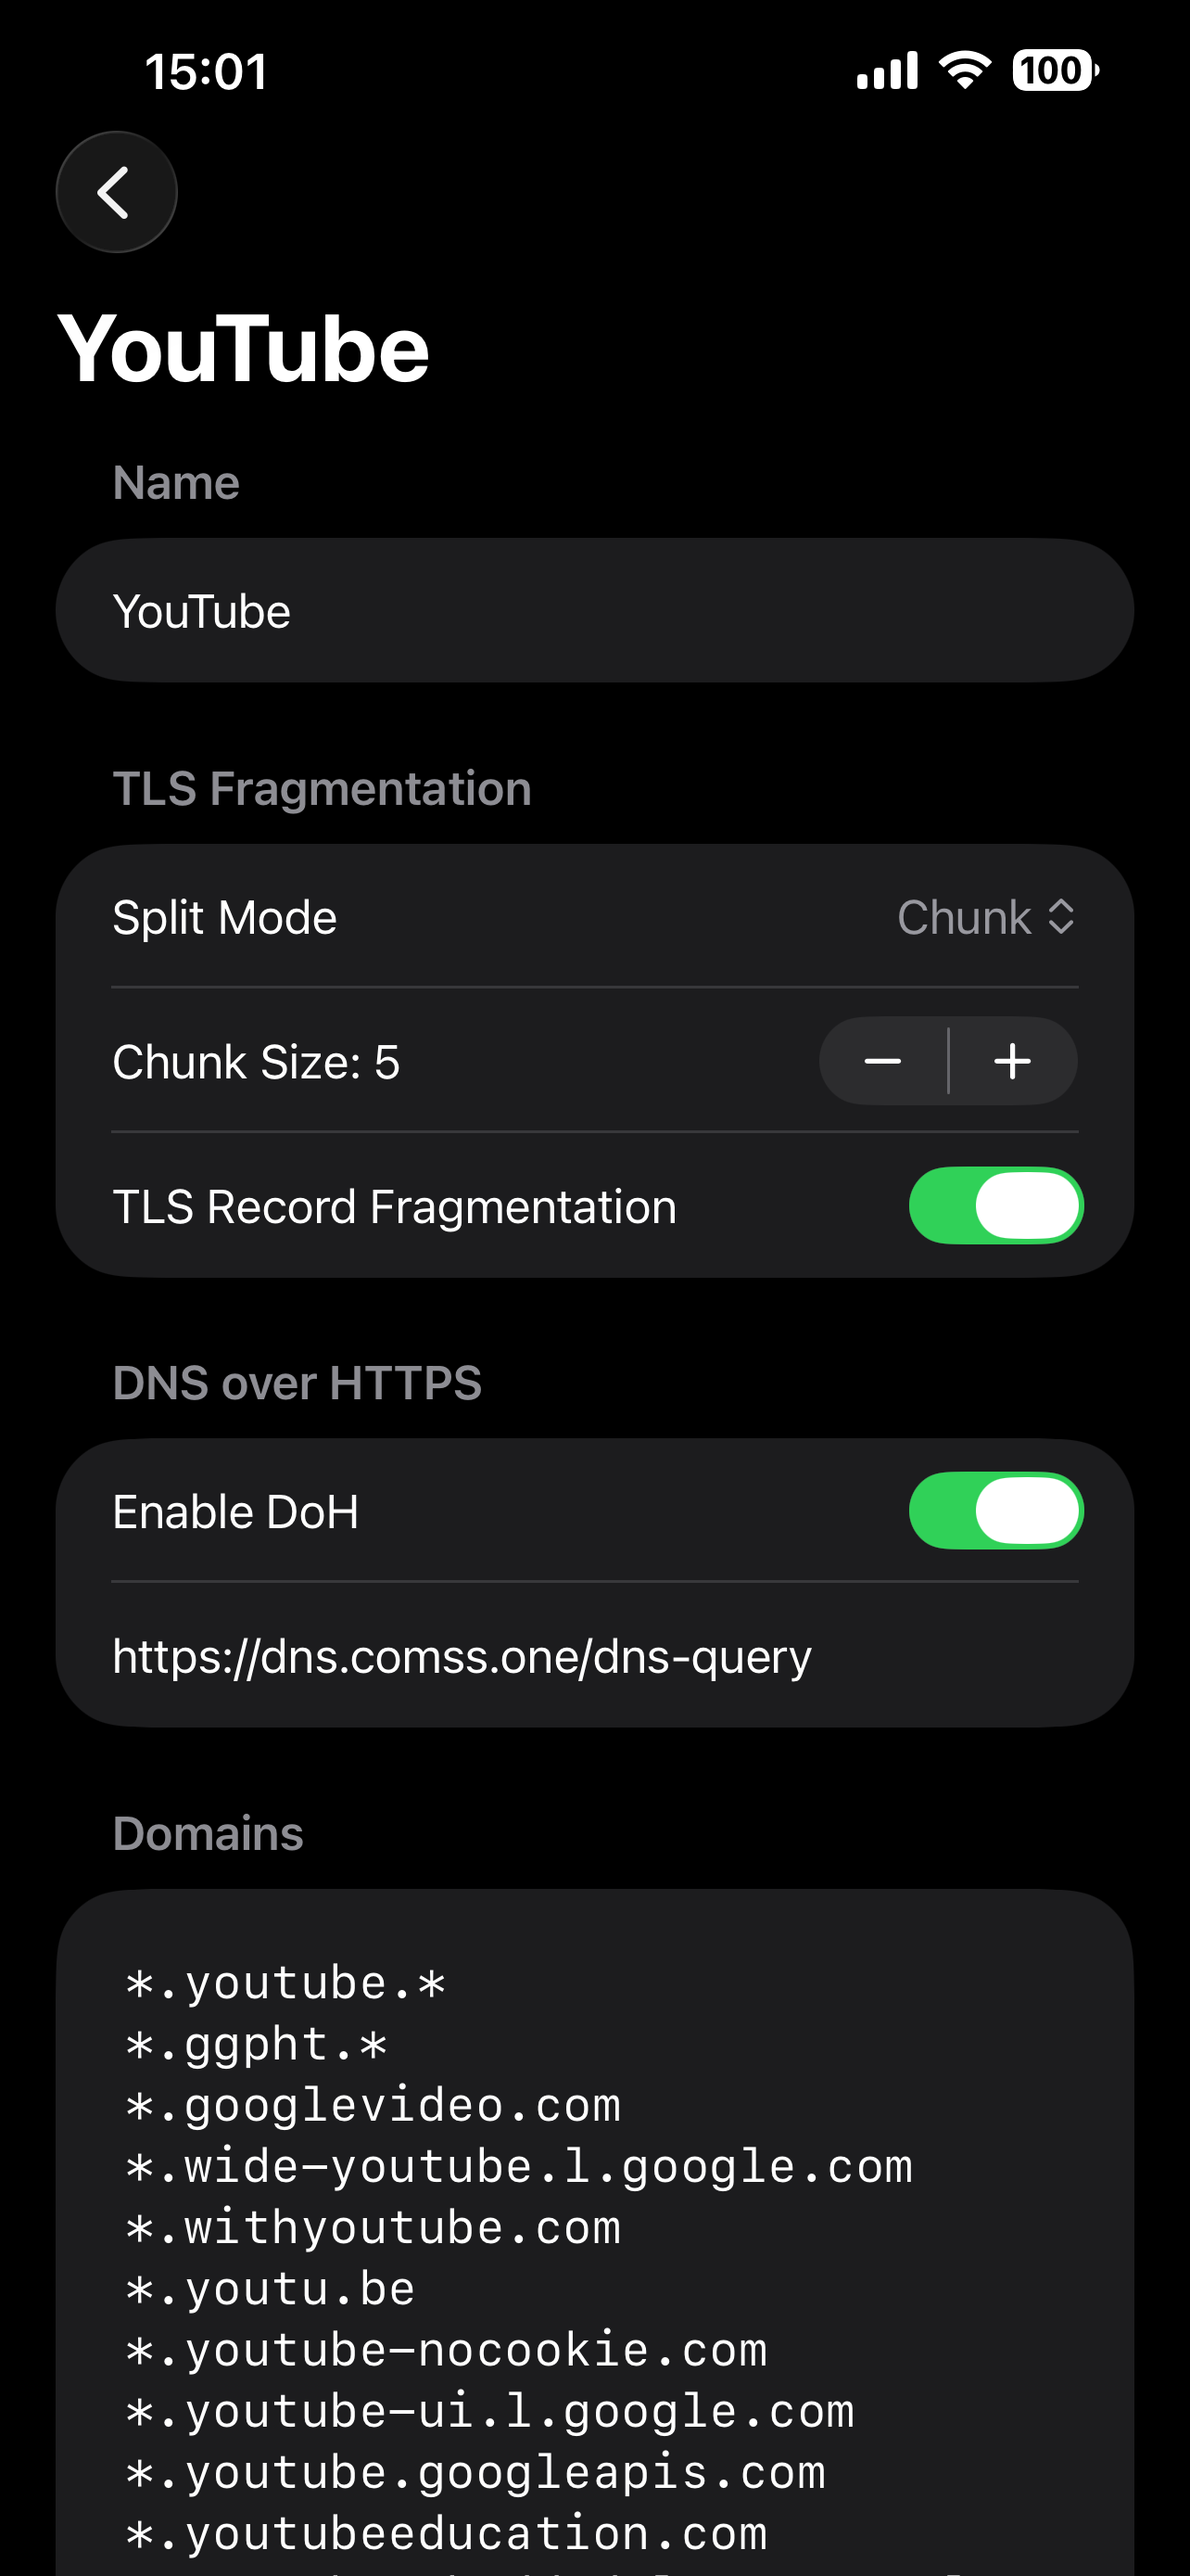
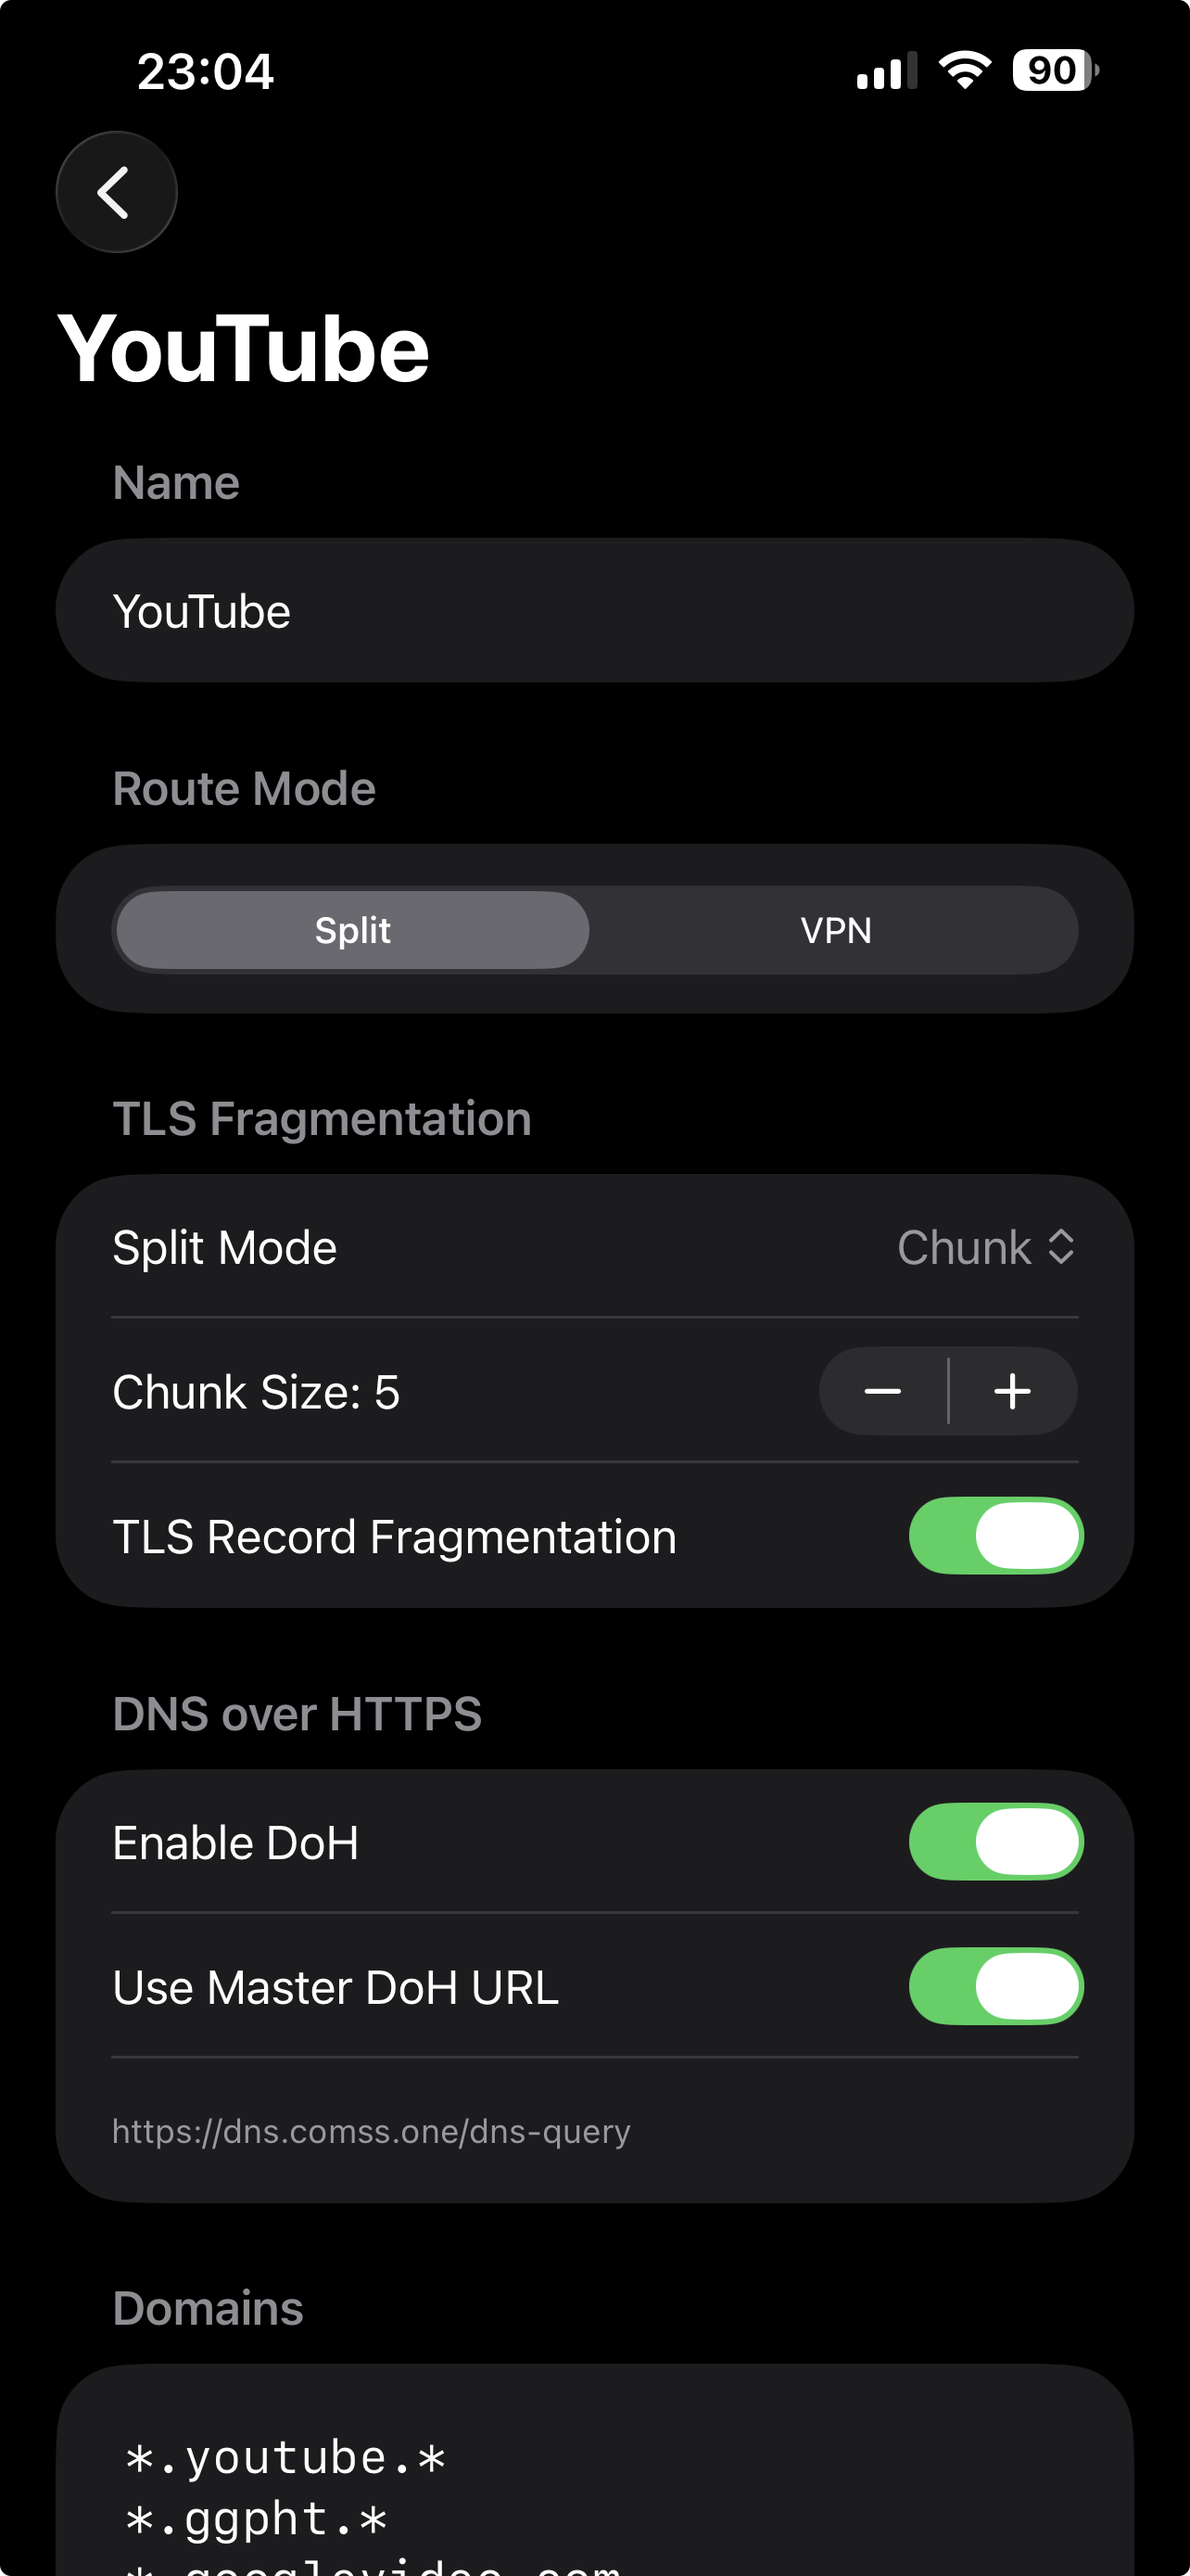
Release v1.5.4

diff --git a/README.md b/README.md
@@ -10,6 +10,7 @@ Spoofy runs a local proxy that intercepts HTTPS connections and fragments TLS Cl
   <img src="Docs/main_screen.PNG" width="250" />
   <img src="Docs/settings_screen.PNG" width="250" />
   <img src="Docs/profile_screen.PNG" width="250" />
+  <img src="Docs/profile_vpn_screen.jpg" width="250" />
 </p>
 
 ## How It Works
@@ -21,10 +22,12 @@ Spoofy runs a local proxy that intercepts HTTPS connections and fragments TLS Cl
 
 ## Features
 
-- Multiple TLS fragmentation strategies (SNI, Chunk, Random, FirstByte)
-- TLS record fragmentation for additional obfuscation
-- DNS-over-HTTPS (DoH) to prevent DNS-based blocking
-- Per-domain profiles with wildcard pattern matching
+- TCP and TLS fragmentations to prevent DPI blocking
+- DNS-over-HTTPS to prevent DNS-based blocking
+- Outline server support — route matched domains through an Outline server
+- Per Domain Profiles. Allows to precisely configure which rules work for which domain
+- Export / Import settings
+- LAN Server. Allows other devices on the same local network to connect to the proxy.
 
 ## Limitations
 
@@ -40,6 +43,8 @@ Spoofy runs a local proxy that intercepts HTTPS connections and fragments TLS Cl
 
 Spoofy uses a profile system to apply different bypass strategies to different domains.
 
+<img src="Docs/settings_screen.PNG" width="250" />
+
 #### Master Profile
 
 The **Master** (default) profile applies to all traffic that doesn't match any other profile.
@@ -48,12 +53,23 @@ The **Master** (default) profile applies to all traffic that doesn't match any o
 
 You can create additional profiles for specific domains that need different settings.
 
-Domain patterns support wildcards:
+### Domain patterns
+
+Support wildcards:
 | Pattern | Matches |
 |---|---|
 | `*.example.com` | `www.example.com`, `api.example.com`, etc. |
 | `example.*` | `example.com`, `example.org`, etc. |
 | `*.youtube.*` | `www.youtube.com`, `m.youtube.co.uk`, etc. |
+
+### Route Mode
+
+Each profile has a **Route Mode** that determines how matched traffic is handled:
+
+| Mode | Description |
+|---|---|
+| **Split** | DPI bypass — fragments TLS ClientHello using the configured split strategy (default) |
+| **VPN** | Routes traffic through a VPN. For now only [Outline (Shadowsocks) server](#outline-server) is supported |
 
 ### Split Mode
 
@@ -74,6 +90,14 @@ The core setting that determines how the TLS ClientHello packet is fragmented. A
 An additional layer of obfuscation. When enabled, the TLS handshake message is wrapped across multiple TLS records *before* the split mode is applied. This can help bypass DPI that reassembles TLS records before inspecting them.
 
 **Recommendation:** Enable this if your chosen split mode alone doesn't work.
+
+### Outline Server
+
+When VPN type is set to **Outline**, traffic matching that profile's domains is routed through an [Outline](https://getoutline.org/)-compatible Shadowsocks server.
+
+To configure Outline routing paste your Outline server's `ss://` access key into the **Server Configuration** field
+
+**Recommendation:** Use Outline mode when you have access to an Outline server for domains where DPI bypass is not enough.
 
 ### DNS-over-HTTPS (DoH)
 
@@ -151,47 +175,18 @@ Spoofy is **not available on the App Store** and does not support VPN mode. Both
 
 ---
 
-## Example Profile: YouTube
-
-A ready-to-use profile for unblocking YouTube:
-
-| Setting | Value |
-|---|---|
-| **Split Mode** | Chunk |
-| **Chunk Size** | 5 |
-| **TLS Record Fragmentation** | On |
-| **Enable DoH** | Yes |
-| **DoH Server URL** | `https://dns.comss.one/dns-query` |
-
-**Domains** (one per line):
-```
-*.youtube.*
-*.ggpht.*
-*.googlevideo.com
-*.wide-youtube.l.google.com
-*.withyoutube.com
-*.youtu.be
-*.youtube-nocookie.com
-*.youtube-ui.l.google.com
-*.youtube.googleapis.com
-*.youtubeeducation.com
-*.youtubeembeddedplayer.googleapis.com
-*.youtubefanfest.com
-*.youtubegaming.com
-*.youtubego.*
-*.youtubei.googleapis.com
-*.youtubekids.com
-*.youtubemobilesupport.com
-*.yt.be
-*.ytimg.com
-```
-
----
-
 ## For Developers
 
 ### Releasing a New Version
+
 ```
 make release VERSION=1.2 DESCRIPTION="Bug fixes and improvements"
 ```
 Bumps the Xcode project version, archives the app, updates `altsource.json`, and creates a GitHub Release.
+
+### Build and install to the Applications the macOS version
+
+```
+make install-macos
+```
+It tries to build and sign the app and then copy it to the Applications
